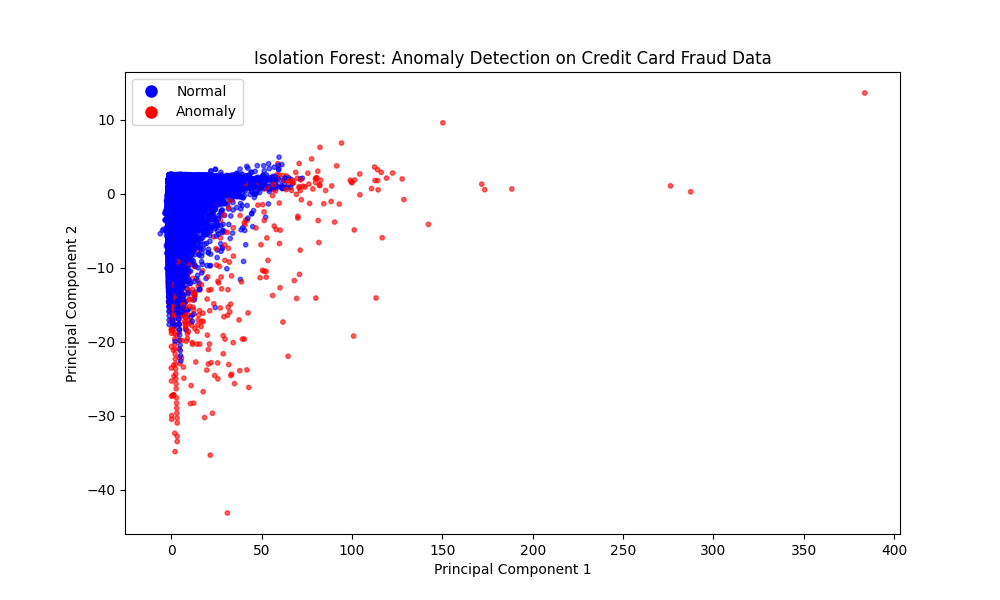
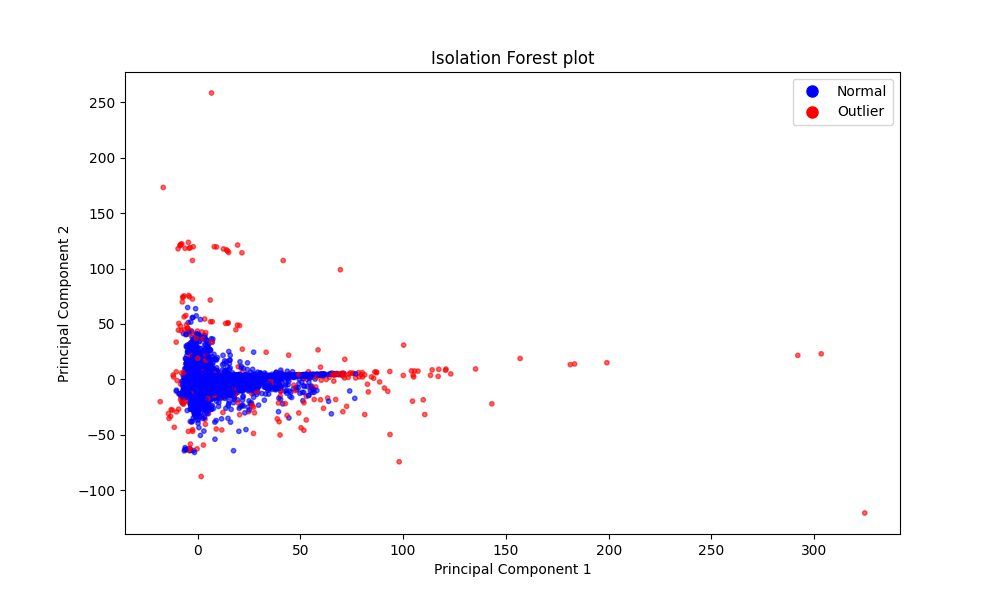
isolation forest possibilmente fixato

diff --git a/main.py b/main.py
@@ -1,6 +1,7 @@
 from collections import Counter
 
 import matplotlib.pyplot as plt
+import matplotlib.lines as mlines
 import networkx as nx
 import pandas
 import pandas as pd
@@ -11,10 +12,12 @@ from pgmpy.estimators import MaximumLikelihoodEstimator, HillClimbSearch
 from pgmpy.inference import VariableElimination
 from pgmpy.models import BayesianNetwork
 from pgmpy.readwrite import BIFWriter, BIFReader
-from sklearn.ensemble import RandomForestClassifier
+from sklearn.decomposition import PCA
+from sklearn.ensemble import RandomForestClassifier, IsolationForest
 from sklearn.linear_model import LogisticRegression
 from sklearn.manifold import TSNE
-from sklearn.metrics import precision_score, recall_score, f1_score, accuracy_score
+from sklearn.metrics import precision_score, recall_score, f1_score, accuracy_score, roc_curve, classification_report, \
+    confusion_matrix, roc_auc_score
 from sklearn.model_selection import cross_validate
 from sklearn.model_selection import train_test_split, GridSearchCV
 from sklearn.neighbors import KNeighborsClassifier
@@ -276,45 +279,10 @@ def main():
 
     # https://www.kaggle.com/code/sifodhara/credit-card-fraud-detection-using-isolation-forest per dei plot sui dati, da mettere qua per abbellire sto progetto
     #Isolation forest per visualizzare anomalie
-    """
-    contamination_ratio = scaled_dataset["Class"].sum() / len(scaled_dataset)
-    print("Contamination ratio:", contamination_ratio)
-    
-    iso = IsolationForest(contamination=contamination_ratio, n_estimators=200, random_state=42, n_jobs=-1, verbose=2)
-    iso.fit(x)
+    #isolation_forest(scaled_dataset)
+    isolation_forest(oversampled_dataset, True)
 
-    # Predict anomalies: 1 = inlier, -1 = outlier
-    scaled_dataset["anomaly"] = iso.predict(x)
-    # Map the predictions: 1 -> 0 (normal) and -1 -> 1 (anomaly)
-    scaled_dataset["anomaly_label"] = scaled_dataset["anomaly"].map({1: 0, -1: 1})
-    # Reduce data to 2 principal components for visualization
-    pca = PCA(n_components=2, random_state=42)
-    X_pca = pca.fit_transform(x)
 
-    # Add PCA components to the dataframe for plotting
-    scaled_dataset["PC1"] = X_pca[:, 0]
-    scaled_dataset["PC2"] = X_pca[:, 1]
-
-    # Create a scatter plot with different colors for normal and anomalous points
-    plt.figure(figsize=(10, 6))
-    colors = {0: 'blue', 1: 'red'}
-    plt.scatter(scaled_dataset["PC1"], scaled_dataset["PC2"],
-                c=scaled_dataset["anomaly_label"].map(colors),
-                alpha=0.6,
-                s=10)
-    plt.title("Isolation Forest: Anomaly Detection on Credit Card Fraud Data")
-    plt.xlabel("Principal Component 1")
-    plt.ylabel("Principal Component 2")
-
-    # Create custom legend
-    normal_dot = mlines.Line2D([], [], color='blue', marker='o', linestyle='None',
-                               markersize=8, label='Normal')
-    anomaly_dot = mlines.Line2D([], [], color='red', marker='o', linestyle='None',
-                                markersize=8, label='Anomaly')
-    plt.legend(handles=[normal_dot, anomaly_dot])
-    plt.savefig("isolation forest.png")
-    plt.show()
-    """
     #testo le varie combinazioni di discretizzazione su modelli base, per capire il giusto numero di bins
     #data_discretization_test(scaled_dataset, supervised_base_classifiers)
     #results_df = pd.read_csv("discretization results.csv")
@@ -327,7 +295,7 @@ def main():
     #bayesian_network_inference(bayesian_model, generated_samples)
     #samples = dataframe_get_sample(oversampled_dataset, 10000, True)
     #bayesian_network_inference(bayesian_model, samples)
-    neural_net(oversampled_dataset)
+    #neural_net(oversampled_dataset)
 
 
 def dataframe_get_sample(dataframe:DataFrame, n_samples, to_discretize=False):
@@ -539,6 +507,59 @@ def plot_neural_net(history):
     text = f"Learning rate 0.0001, 100 epochs."
     plt.figtext(0.5, 0.01, text, wrap=True, horizontalalignment='center', fontsize=12)
     plt.show()
+
+def isolation_forest(dataframe, is_oversampled_dataset = False):
+    print(dataframe.info())
+    contamination = dataframe["Class"].sum() / len(dataframe)
+    x = dataframe.drop('Class', axis=1)
+    y = dataframe['Class']
+    iso = IsolationForest(contamination=contamination, n_estimators=200,  random_state=42, n_jobs=-1, verbose=2)
+    iso.fit(x)
+    y_pred = iso.score_samples(x)
+    fpr_correct, tpr_correct, _ = roc_curve(y, -y_pred)
+    plt.plot(fpr_correct, tpr_correct, 'black', lw=1)
+    plt.xlabel('False positive rate')
+    plt.ylabel('True positive rate')
+    plt.title("Isolation Forest: ROC curve")
+    plt.savefig(f"isolation forest roc curve {'smote' if is_oversampled_dataset else ''}.png")
+    plt.show()
+
+    # Predict anomalies: 1 = inlier, -1 = outlier
+    dataframe["outlier"] = iso.predict(x)
+    y_pred = dataframe["outlier"].map({1: 0, -1: 1})
+    print(roc_auc_score(y,y_pred))
+    # Map the predictions: 1 -> 0 (normal) and -1 -> 1 (anomaly)
+
+    dataframe["outlier_label"] = dataframe["outlier"].map({1: 0, -1: 1})
+    # Reduce data to 2 principal components for visualization
+    pca = PCA(n_components=2, random_state=42)
+    x_pca = pca.fit_transform(x)
+
+    # Add PCA components to the dataframe for plotting
+    dataframe["PC1"] = x_pca[:, 0]
+    dataframe["PC2"] = x_pca[:, 1]
+
+    # Create a scatter plot with different colors for normal and anomalous points
+    plt.figure(figsize=(10, 6))
+    colors = {0: 'blue', 1: 'red'}
+    plt.scatter(dataframe["PC1"], dataframe["PC2"],
+                c=dataframe["outlier_label"].map(colors),
+                alpha=0.6,
+                s=10)
+    plt.title("Isolation Forest plot")
+    plt.xlabel("Principal Component 1")
+    plt.ylabel("Principal Component 2")
+
+    # Create custom legend
+    normal_dot = mlines.Line2D([], [], color='blue', marker='o', linestyle='None',
+                               markersize=8, label='Normal')
+    anomaly_dot = mlines.Line2D([], [], color='red', marker='o', linestyle='None',
+                                markersize=8, label='Outlier')
+    plt.legend(handles=[normal_dot, anomaly_dot])
+    plt.savefig(f"isolation forest {'smote' if is_oversampled_dataset else ''}.png")
+    plt.show()
+
+
 
 if __name__ == "__main__":
     main()
